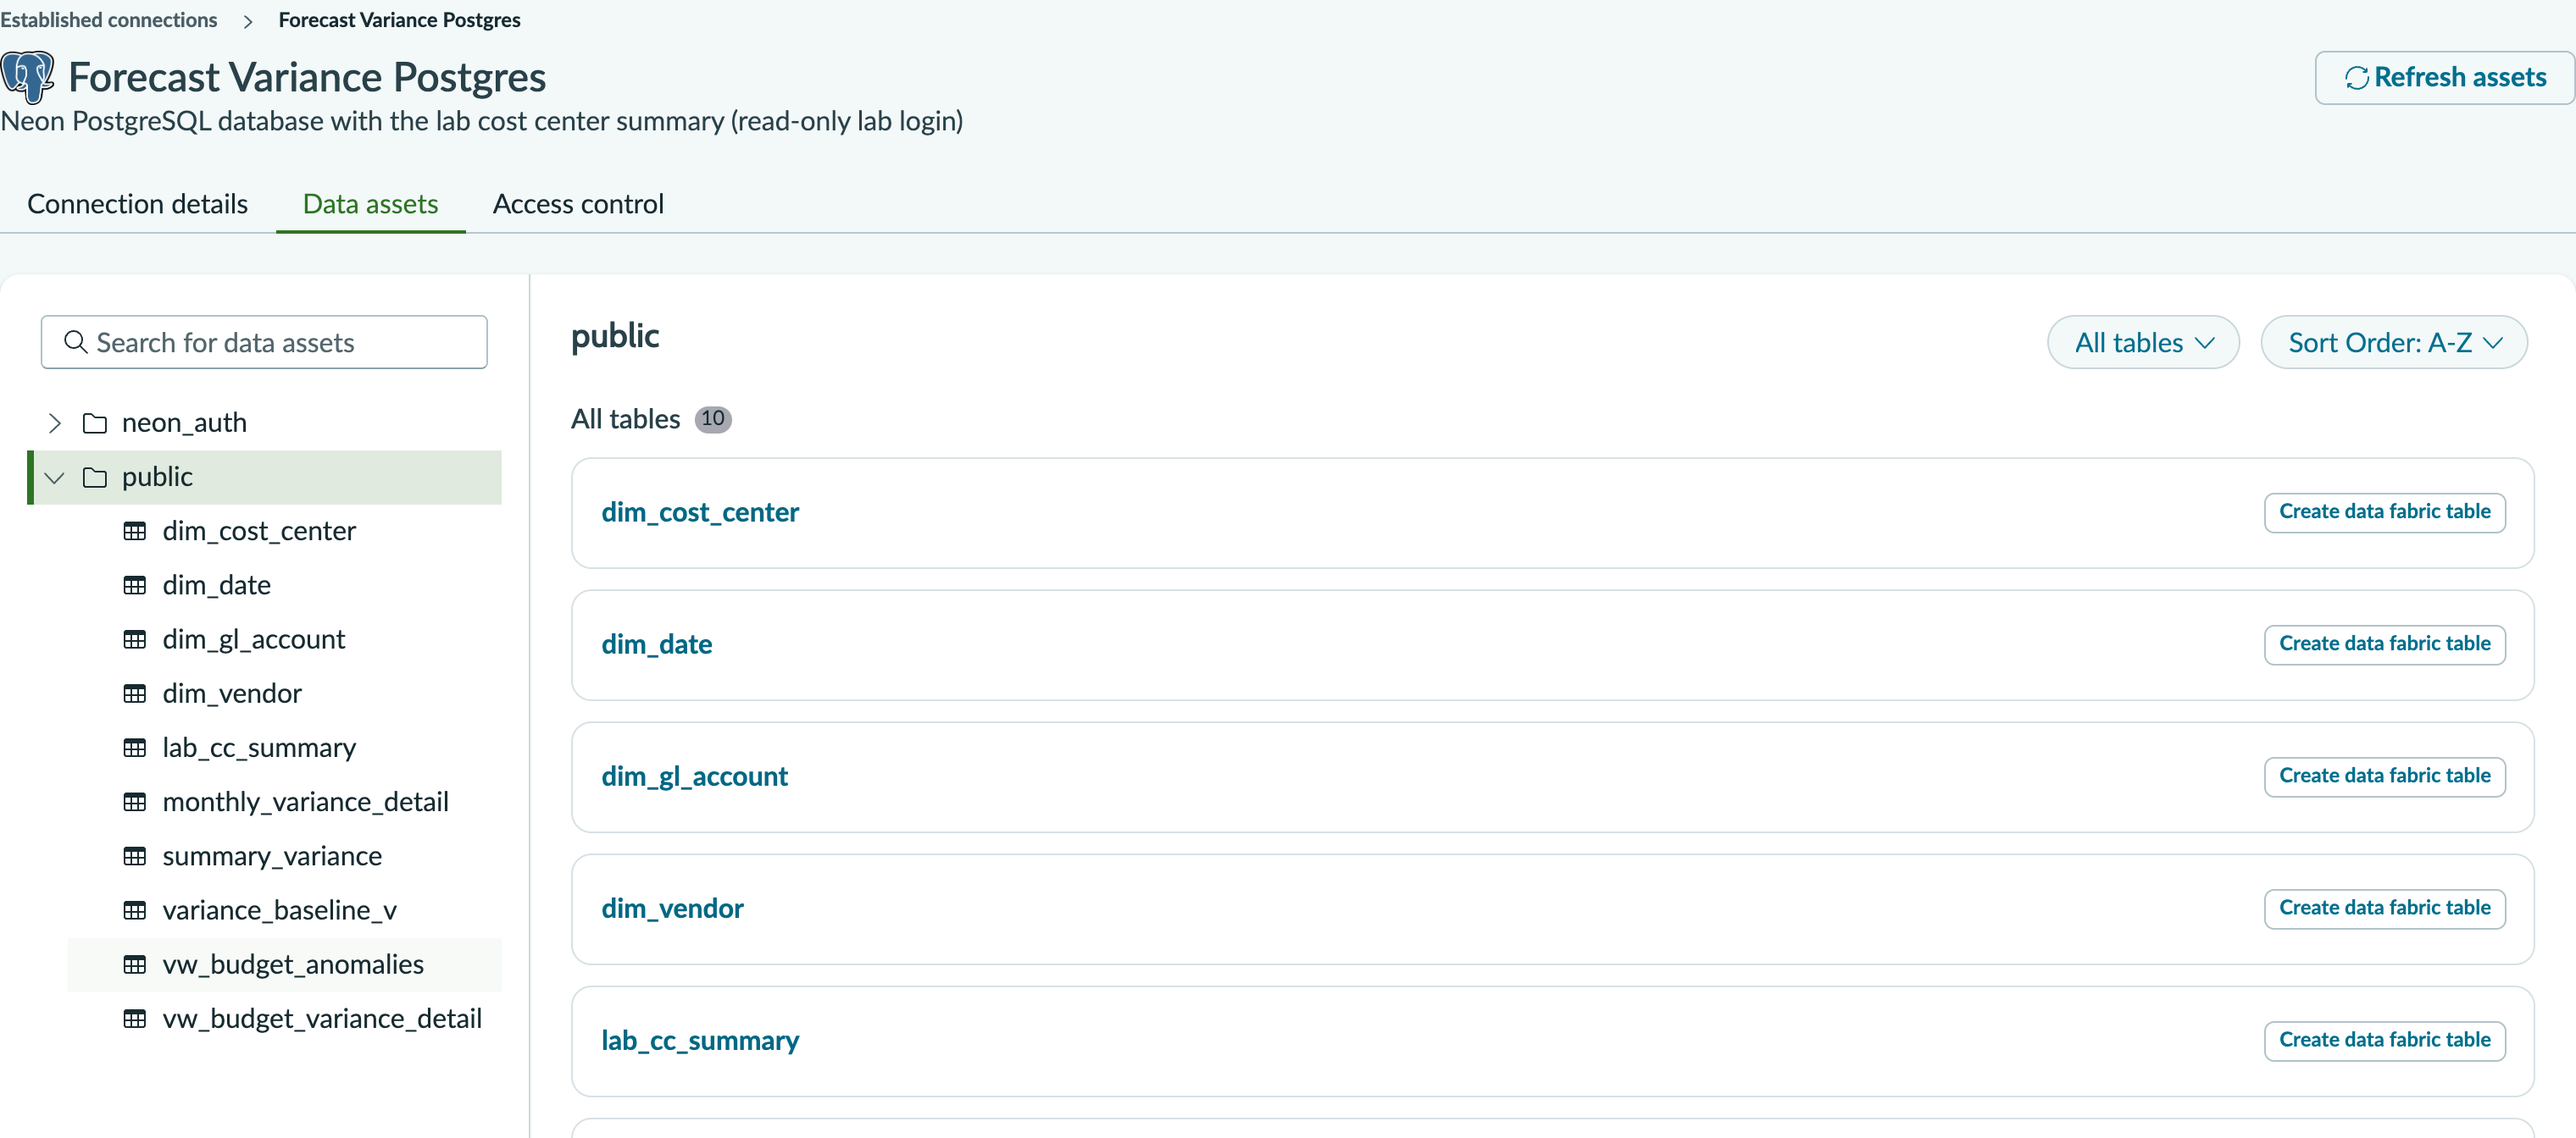
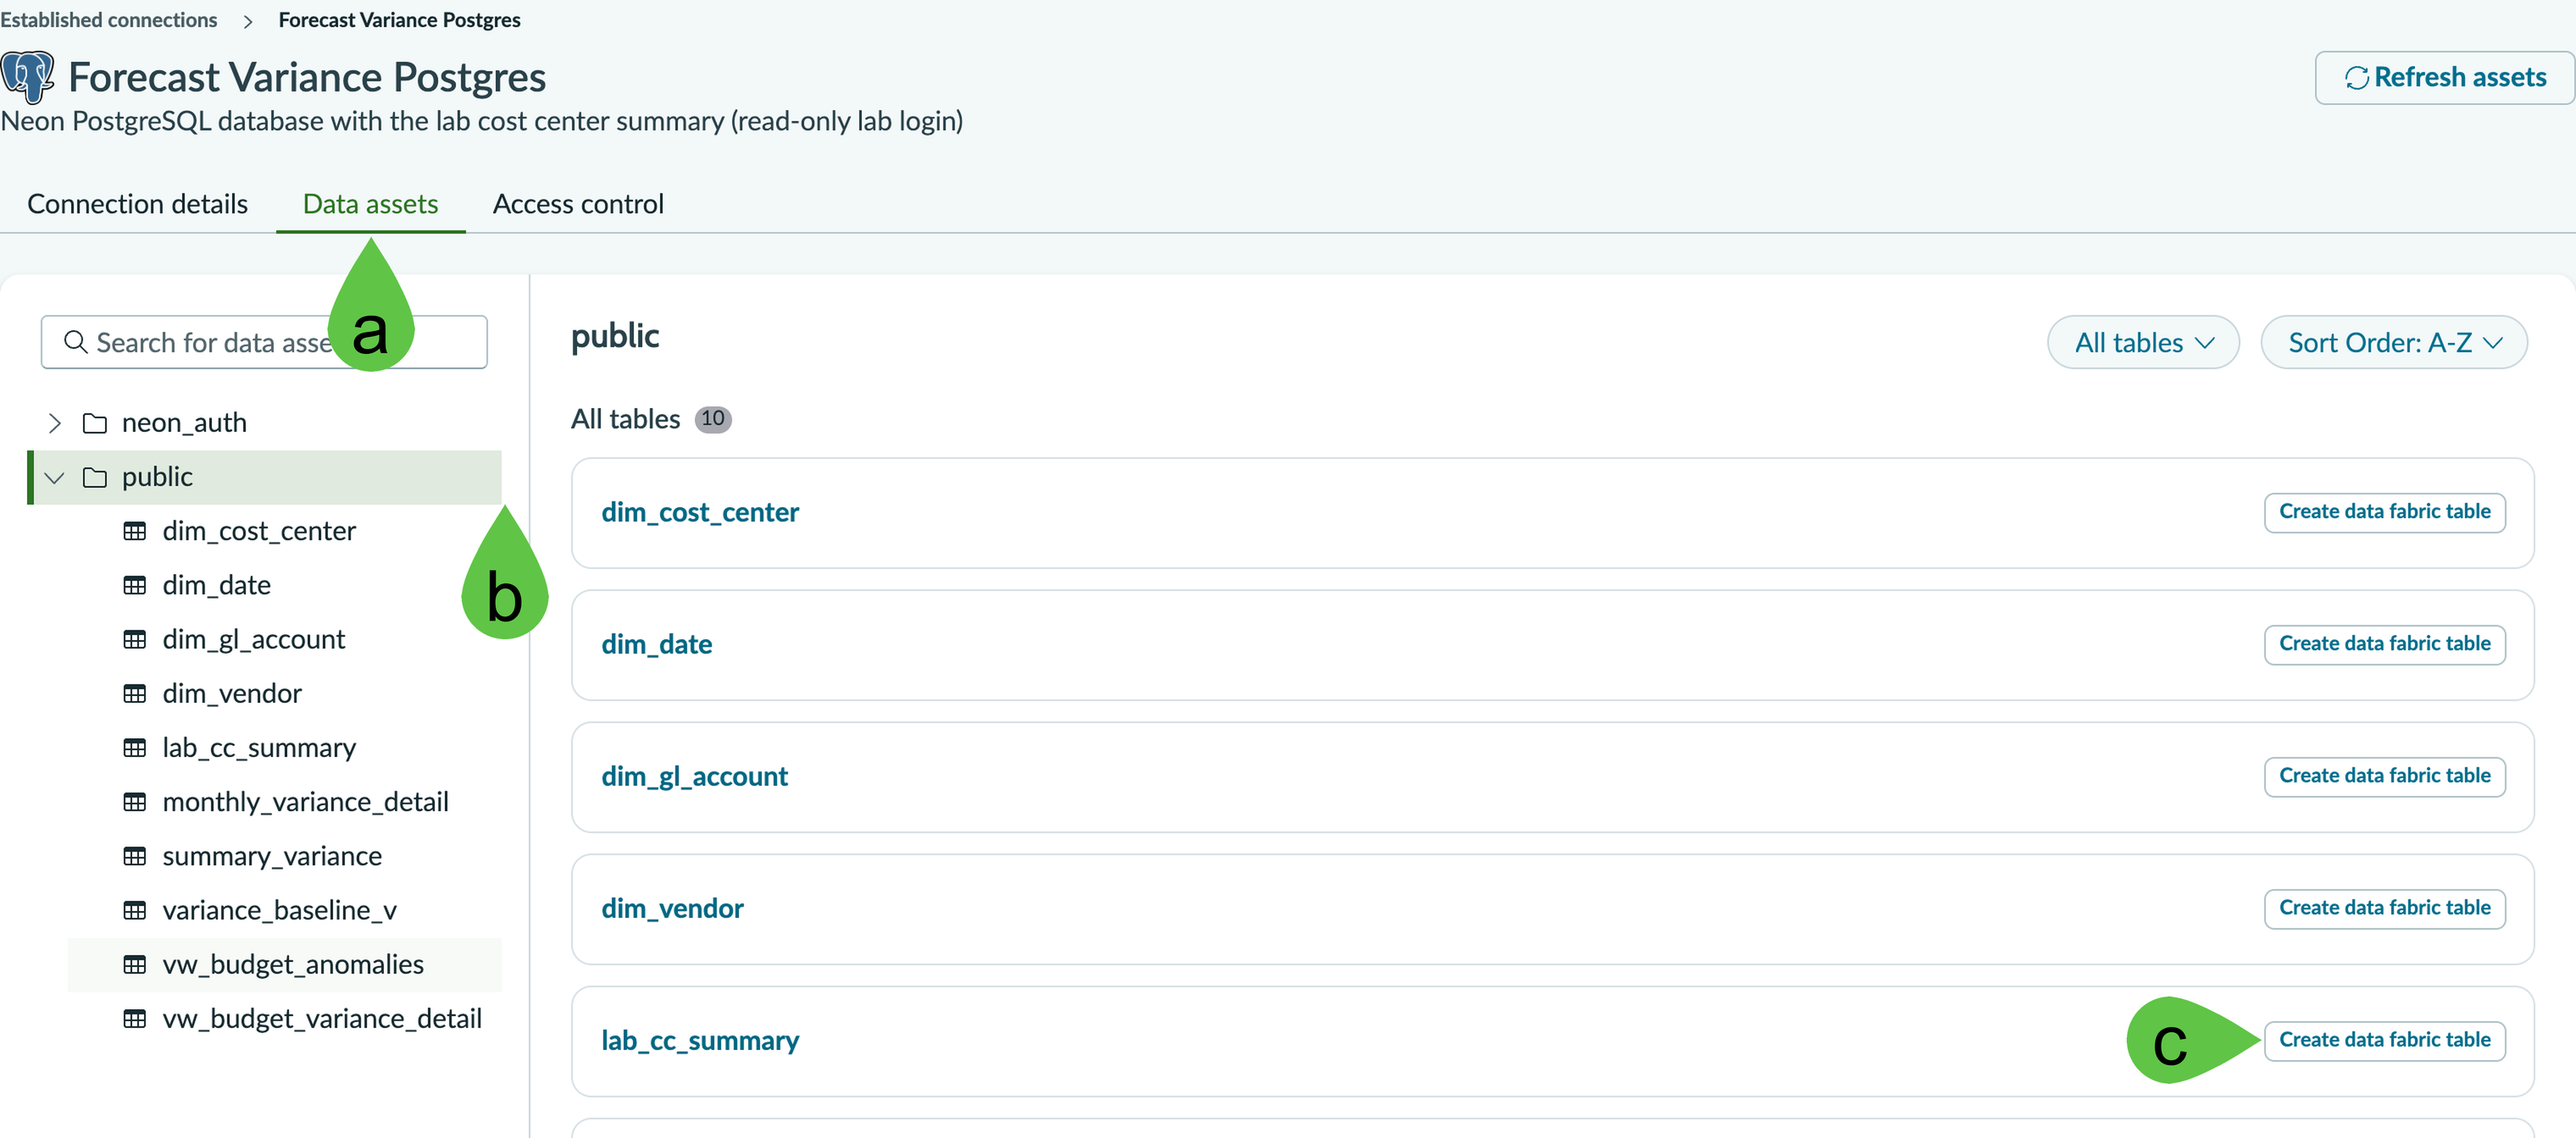
Add teardrop labels and green a.) b.) step markers to the TypeE screenshots

Changed region(s): [[0.8125, 0.875, 0.875, 0.9688], [0.1562, 0.4375, 0.2188, 0.5625], [0.125, 0.2188, 0.1875, 0.3438]]

diff --git a/lab-guide/main-exercises/lab-exercise-zero-copy-connectors.md b/lab-guide/main-exercises/lab-exercise-zero-copy-connectors.md
@@ -212,7 +212,7 @@ You can let Build Agent clone the model for you.
     source's. If anything only partially inserts, roll back the run instead of leaving
     orphans.
     ```
-2.  Click **Approve**. You should see the new model in **Forecast Variance** with system **S4D**, and counts that match the source (3, 29, 327, 48, 48, 29).
+2.  Click <mark style="color:green;">**a.)**</mark> **Approve**. You should see the new model in **Forecast Variance** with system **S4D**, and counts that match the source (3, 29, 327, 48, 48, 29).
 
     <figure><img src="https://raw.githubusercontent.com/leojacinto/WorkflowDataFabric-TypeE/main/lab-guide/assets/sc_zcc_ba_approve.png" alt="" width="420"><figcaption></figcaption></figure>
 
@@ -266,13 +266,13 @@ In this lab the cloud data warehouse is a **PostgreSQL** database hosted on Neon
 
 Navigate to Zero Copy Connectors. Review the established PostgreSQL connection.
 
-1.  Navigate to **All** > type **Zero Copy Connectors** > click **Zero Copy Connectors (Workflow Data Fabric)**. This opens the **Zero Copy Connector Hub**.
+1.  Navigate to **All** > <mark style="color:green;">**a.)**</mark> type **Zero Copy Connectors** > <mark style="color:green;">**b.)**</mark> click **Zero Copy Connectors (Workflow Data Fabric)**. This opens the **Zero Copy Connector Hub**.
 
     <figure><img src="https://raw.githubusercontent.com/leojacinto/WorkflowDataFabric-TypeE/main/lab-guide/assets/sc_zcc_pg_nav.png" alt="" width="320"><figcaption></figcaption></figure>
-2.  Go to **Established connections** > **Forecast Variance Postgres**. <mark style="color:red;">**Note:**</mark> this connection is configured specifically for instances used in ServiceNow-led labs.
+2.  Go to **Established connections** > <mark style="color:green;">**a.)**</mark> **Forecast Variance Postgres**. <mark style="color:red;">**Note:**</mark> this connection is configured specifically for instances used in ServiceNow-led labs.
 
     <figure><img src="https://raw.githubusercontent.com/leojacinto/WorkflowDataFabric-TypeE/main/lab-guide/assets/sc_zcc_pg_established.png" alt="" width="560"><figcaption></figcaption></figure>
-3.  The **Connection details** tab shows how the connection is configured: a JDBC URL to the Neon database and the read-only user **wdf\_lab\_reader**. No action needs to be done for this step.
+3.  The **Connection details** tab shows how the connection is configured: <mark style="color:green;">**a.)**</mark> a JDBC URL to the Neon database and <mark style="color:green;">**b.)**</mark> the read-only user **wdf\_lab\_reader**. No action needs to be done for this step.
 
     <figure><img src="https://raw.githubusercontent.com/leojacinto/WorkflowDataFabric-TypeE/main/lab-guide/assets/sc_zcc_pg_connection_details.png" alt="" width="560"><figcaption></figcaption></figure>
 
@@ -280,25 +280,25 @@ Navigate to Zero Copy Connectors. Review the established PostgreSQL connection.
 
 Create a data fabric table from lab\_cc\_summary. Set Cost Center as a Reference field to the ERP extraction table. Set GL Account as primary key.
 
-1.  Go to **Data assets** > **public**, and beside **lab\_cc\_summary** click **Create data fabric table**. This screen lists the tables in the database; this lab uses only **lab\_cc\_summary**.
+1.  Go to <mark style="color:green;">**a.)**</mark> **Data assets** > <mark style="color:green;">**b.)**</mark> **public**, and beside **lab\_cc\_summary** <mark style="color:green;">**c.)**</mark> click **Create data fabric table**. This screen lists the tables in the database; this lab uses only **lab\_cc\_summary**.
 
     <figure><img src="https://raw.githubusercontent.com/leojacinto/WorkflowDataFabric-TypeE/main/lab-guide/assets/sc_zcc_pg_data_assets.png" alt=""><figcaption></figcaption></figure>
-2.  Enter the **Label**, e.g. **cc\_summ\_\<your initials>**. The **Name** is filled in for you, e.g. **x\_snc\_forecast\_v\_0\_df\_cc\_summ\_lfr**, and must stay at 40 characters or fewer. Check that **Application scope** shows **Forecast Variance**, then click **Continue**.
+2.  Enter the <mark style="color:green;">**a.)**</mark> **Label**, e.g. **cc\_summ\_\<your initials>**. The <mark style="color:green;">**b.)**</mark> **Name** is filled in for you, e.g. **x\_snc\_forecast\_v\_0\_df\_cc\_summ\_lfr**, and must stay at 40 characters or fewer. Check that <mark style="color:green;">**c.)**</mark> **Application scope** shows **Forecast Variance**, then click **Continue**.
 
     <figure><img src="https://raw.githubusercontent.com/leojacinto/WorkflowDataFabric-TypeE/main/lab-guide/assets/sc_zcc_pg_df_label.png" alt="" width="560"><figcaption></figcaption></figure>
-3.  Tick the box beside **Name** to map all 10 columns to the data fabric table. You can also pick only the columns you need, which makes the table load faster.
+3.  Tick the <mark style="color:green;">**a.)**</mark> box beside **Name** to map all 10 columns to the data fabric table. You can also pick only the columns you need, which makes the table load faster.
 
     <figure><img src="https://raw.githubusercontent.com/leojacinto/WorkflowDataFabric-TypeE/main/lab-guide/assets/sc_zcc_pg_select_columns.png" alt=""><figcaption></figcaption></figure>
-4.  For **cost\_center**, change **Type** from **String** to **Reference** (at the end of the list), then click **Set Reference**. A **Reference** field points to a record in another table, so each cost center links to its master data from SAP.
+4.  For **cost\_center**, change <mark style="color:green;">**a.)**</mark> **Type** from **String** to **Reference** (at the end of the list), then click <mark style="color:green;">**b.)**</mark> **Set Reference**. A **Reference** field points to a record in another table, so each cost center links to its master data from SAP.
 
     <figure><img src="https://raw.githubusercontent.com/leojacinto/WorkflowDataFabric-TypeE/main/lab-guide/assets/sc_zcc_pg_cost_center_reference.png" alt=""><figcaption></figcaption></figure>
-5.  Set **Table** to **SAP Cost Center** (**sn\_erp\_integration\_cost\_center**, which you set up in the ZCC for ERP exercise) and **Reference key** to **Cost Center**, then click **Set Reference**.
+5.  Set <mark style="color:green;">**a.)**</mark> **Table** to **SAP Cost Center** (**sn\_erp\_integration\_cost\_center**, which you set up in the ZCC for ERP exercise) and <mark style="color:green;">**b.)**</mark> **Reference key** to **Cost Center**, then click <mark style="color:green;">**c.)**</mark> **Set Reference**.
 
     <figure><img src="https://raw.githubusercontent.com/leojacinto/WorkflowDataFabric-TypeE/main/lab-guide/assets/sc_zcc_pg_set_reference.png" alt="" width="444"><figcaption></figcaption></figure>
-6.  Turn on **Primary** for **gl\_account**, then click **Finish**.
+6.  Turn on <mark style="color:green;">**a.)**</mark> **Primary** for **gl\_account**, then click <mark style="color:green;">**b.)**</mark> **Finish**.
 
     <figure><img src="https://raw.githubusercontent.com/leojacinto/WorkflowDataFabric-TypeE/main/lab-guide/assets/sc_zcc_pg_primary_key.png" alt=""><figcaption></figcaption></figure>
-7.  In the **Primary key defined** dialog, click **Confirm**. A primary key lets ServiceNow tell the source rows apart, and it can't be removed later.
+7.  In the **Primary key defined** dialog, click <mark style="color:green;">**a.)**</mark> **Confirm**. A primary key lets ServiceNow tell the source rows apart, and it can't be removed later.
 
     <figure><img src="https://raw.githubusercontent.com/leojacinto/WorkflowDataFabric-TypeE/main/lab-guide/assets/sc_zcc_pg_confirm_pk.png" alt="" width="420"><figcaption></figcaption></figure>
 
@@ -306,7 +306,7 @@ Create a data fabric table from lab\_cc\_summary. Set Cost Center as a Reference
 
 View the data fabric table you created and open its contents.
 
-1.  Your table now shows under **lab\_cc\_summary**. Click the three vertical dots > **Open list**.
+1.  Your table now shows under **lab\_cc\_summary**. Click <mark style="color:green;">**a.)**</mark> the three vertical dots > <mark style="color:green;">**b.)**</mark> **Open list**.
 
     <figure><img src="https://raw.githubusercontent.com/leojacinto/WorkflowDataFabric-TypeE/main/lab-guide/assets/sc_zcc_pg_open_list.png" alt=""><figcaption></figcaption></figure>
 2.  The list shows all 24 rows, read from PostgreSQL when you open it. The data stays in the source database; nothing is copied into ServiceNow.
@@ -342,13 +342,13 @@ The **Forecast Variance** agent you built in [Lab Exercise: Integration Hub](lab
 1.  Navigate to All > <mark style="color:green;">**a.)**</mark> type **AI Agent Studio** > <mark style="color:green;">**b.)**</mark> click on **Create and Manage**.
 
     <figure><img src="../.gitbook/assets/sc_zcc_agent_studio_nav.png" alt="" width="336"><figcaption></figcaption></figure>
-2.  Click the **Testing** tab, then **Start manual test**.
+2.  Click the <mark style="color:green;">**a.)**</mark> **Testing** tab, then <mark style="color:green;">**b.)**</mark> **Start manual test**.
 
     <figure><img src="https://raw.githubusercontent.com/leojacinto/WorkflowDataFabric-TypeE/main/lab-guide/assets/sc_zcc_ba_agent_testing.png" alt="" width="560"><figcaption></figcaption></figure>
-3.  Set **Choose a test type** to **AI agent or workflow**, **Name of the AI agent or agentic workflow** to **Forecast Variance** and **Version** to **1 - V1 (Active)**. In **Task**, type **Review expense event EXP-2025-IT-002-1007-01**, then click **Continue to test chat response**.
+3.  Set <mark style="color:green;">**a.)**</mark> **Choose a test type** to **AI agent or workflow**, <mark style="color:green;">**b.)**</mark> **Name of the AI agent or agentic workflow** to **Forecast Variance** and <mark style="color:green;">**c.)**</mark> **Version** to **1 - V1 (Active)**. In <mark style="color:green;">**d.)**</mark> **Task**, type **Review expense event EXP-2025-IT-002-1007-01**, then click <mark style="color:green;">**e.)**</mark> **Continue to test chat response**.
 
     <figure><img src="https://raw.githubusercontent.com/leojacinto/WorkflowDataFabric-TypeE/main/lab-guide/assets/sc_zcc_ba_agent_manual_test.png" alt=""><figcaption></figcaption></figure>
-4.  The map and the **AI agent decision logs** show each tool as it runs: **Extract Cost Center**, **Search for Cost Center History**, **Search for Expense Transactions History**, **Search for Cost Center Summary** (if you added it) and **Budget Variance Analysis**. Budget Variance Analysis can take a few minutes when the instance is busy.
+4.  The <mark style="color:green;">**a.)**</mark> map and the <mark style="color:green;">**b.)**</mark> **AI agent decision logs** show each tool as it runs: **Extract Cost Center**, **Search for Cost Center History**, **Search for Expense Transactions History**, **Search for Cost Center Summary** (if you added it) and **Budget Variance Analysis**. Budget Variance Analysis can take a few minutes when the instance is busy.
 
     <figure><img src="https://raw.githubusercontent.com/leojacinto/WorkflowDataFabric-TypeE/main/lab-guide/assets/sc_zcc_ba_agent_test_run.png" alt=""><figcaption></figcaption></figure>
 5.  When the test ends, the chat shows the cost center and vendor, the cost center's monthly budget history, the vendor's earlier transactions, and the **Finance Case** that Budget Variance Analysis created because CC_IT_001 is over budget.

diff --git a/lab-guide/extended-exercises/lab-exercise-servicenow-lens-and-document-intelligence.md b/lab-guide/extended-exercises/lab-exercise-servicenow-lens-and-document-intelligence.md
@@ -278,7 +278,7 @@ Look for the Now Assist badge. Open Now Assist chat. Expand to Modal view. Revie
 2.  This will open the **Now Assist** chat. Click on the two-headed diagonal arrow to Enter **Modal**.
 
     <figure><img src="../.gitbook/assets/sc_ihub_now_assist_chat_expand.png" alt=""><figcaption></figcaption></figure>
-3. Here is an overview of the steps the agent ran for the invoice's event **EXP-2025-IT-002-1010-01**.
+3. Here is an overview of the steps the agent ran for the invoice's event **EXP-2025-IT-002-1010-01**: the <mark style="color:green;">**a.)**</mark> map shows the agent and its tools, and the <mark style="color:green;">**b.)**</mark> decision logs list each step.
 
 <mark style="color:green;">**a.)**</mark> **Extract Cost Center** looks up the expense event by its **Event ID** and returns the **cost center** (**CC_IT_002**) and **vendor** (**TechSource Solutions Inc.**) that Document Intelligence read from the invoice. We use **Event ID** so the agent built in [Lab Exercise: Integration Hub](https://servicenow-lf.gitbook.io/the-workflow-data-fabric-loom/lab-exercise-integration-hub) works unchanged. In a real business scenario, the relevant field would be the invoice ID or something similar for this document type.
 

diff --git a/lab-guide/main-exercises/lab-exercise-fundamentals.md b/lab-guide/main-exercises/lab-exercise-fundamentals.md
@@ -129,7 +129,7 @@ Create a dummy scope. This activity is meant to make you familiar with scope cre
 
 You can let Build Agent create the table in steps 7 to 14 for you. It builds the table in the **Forecast Variance** app.
 
-1.  In ServiceNow Studio, open the **Forecast Variance** app, then click **Build Agent** (diamond icon) > **New conversation**.
+1.  In ServiceNow Studio, open the **Forecast Variance** app, then click <mark style="color:green;">**a.)**</mark> **Build Agent** (diamond icon) > <mark style="color:green;">**b.)**</mark> **New conversation**.
 
     <figure><img src="https://raw.githubusercontent.com/leojacinto/WorkflowDataFabric-TypeE/main/lab-guide/assets/sc_zcc_ba_new_conversation.png" alt="" width="420"><figcaption></figcaption></figure>
 2.  Paste this prompt, put your initials in place of **\<initials>**, and send it.
